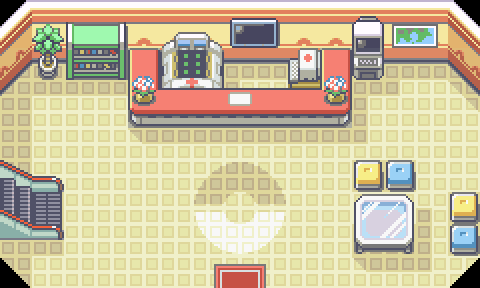
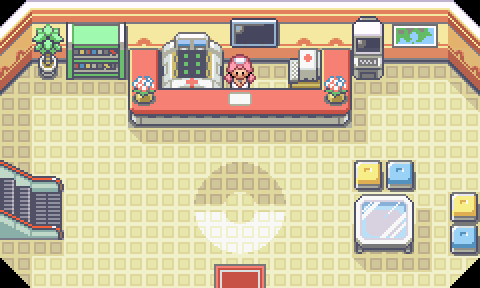
Add nurse to pkmn

Changed region(s): [[0.4688, 0.1875, 0.5312, 0.3125]]

diff --git a/pokemon/main.js b/pokemon/main.js
@@ -110,10 +110,6 @@ var dt = Math.round(1000 / fps);
 var dts = dt / 1000;
 var playermoving = false;
 var playeranim = ["1", "2", "1", "3"];
-var pressingaction = false;
-var pressingone = false;
-var pressingtwo = false;
-var pressingthree = false;
 var amountperanimframe = 4;
 var newarr = [];
 for (var i = 0; i < playeranim.length; i++) {
@@ -192,7 +188,6 @@ var setstate = function (name) {
 	if (name === "battle") {
 		overworldmusic.pause();
 		battlemusic.play();
-		pressingaction = keys[ACTION];
 		textbeingshown = "A battle has started!";
 		pickingmove = false;
 		state = "battle";
@@ -204,6 +199,11 @@ var setstate = function (name) {
 		state = "overworld";
 	}
 }
+
+var justpressedaction = false;
+var justpressedone = false;
+var justpressedtwo = false;
+var justpressedthree = false;
 
 document.addEventListener("keydown", function (e) {
 	e = e || window.event;
@@ -220,15 +220,31 @@ document.addEventListener("keydown", function (e) {
 		keys[RIGHT] = true;
 	}
 	if (e.keyCode === 32) {
+		if (!keys[ACTION]) {
+			justpressedaction = true;
+		}
+
 		keys[ACTION] = true;
 	}
 	if (e.keyCode === 49) {
+		if (!keys[ONE]) {
+			justpressedone = true;
+		}
+
 		keys[ONE] = true;
 	}
 	if (e.keyCode === 50) {
+		if (!keys[TWO]) {
+			justpressedtwo = true;
+		}
+
 		keys[TWO] = true;
 	}
 	if (e.keyCode === 51) {
+		if (!keys[THREE]) {
+			justpressedthree = true;
+		}
+
 		keys[THREE] = true;
 	}
 });
@@ -248,19 +264,15 @@ document.addEventListener("keyup", function (e) {
 	}
 	if (e.keyCode === 32) {
 		keys[ACTION] = false;
-		pressingaction = false;
 	}
 	if (e.keyCode === 49) {
 		keys[ONE] = false;
-		pressingone = false;
 	}
 	if (e.keyCode === 50) {
 		keys[TWO] = false;
-		pressingtwo = false;
 	}
 	if (e.keyCode === 51) {
 		keys[THREE] = false;
-		pressingthree = false;
 	}
 });
 
@@ -417,7 +429,9 @@ window.onload = function () {
 		".": new PassingDataTile(true),
 		"#": new PassingDataTile(false),
 		"*": new Teleporter(0, 0, 0, 14, 9)
-	}, [], "pokecenter.png");
+	}, [], [new ActionEvent(7, 3, function() {
+		playerpoke.hp = playerpoke.stats.hp;
+	})], "pokecenter.png");
 
 	var maps = [route, town, pokecenter];
 
@@ -554,6 +568,10 @@ window.onload = function () {
 
 	tileset.onload = function () {
 		setInterval(function () {
+			if (justpressedaction) {
+				console.log("ACTION");
+			}
+
 			//			console.log("TICK");
 			draw();
 
@@ -617,8 +635,8 @@ window.onload = function () {
 						}
 					}
 				} else {
-					if (keys[ACTION] && !pressingaction) {
-						pressingaction = true;
+					if (justpressedaction) {
+						justpressedaction = false;
 						textbeingshown = null;
 						if (battlingaftertrainertext) {
 							battlingaftertrainertext = false;
@@ -627,13 +645,13 @@ window.onload = function () {
 					}
 				}
 
-				if (playerdir === UP && keys[ACTION] && onblock() && currentmap.get(playerx, playery - 1).name === "sign" && !pressingaction) {
-					pressingaction = true;
+				if (playerdir === UP && justpressedaction && onblock() && currentmap.get(playerx, playery - 1).name === "sign") {
+					justpressedaction = false;
 					textbeingshown = currentmap.get(playerx, playery - 1).text;
 				}
-				if (!pressingaction && keys[ACTION] && onblock()) {
+				if (justpressedaction && onblock()) {
+					justpressedaction = false;
 					if (playerdir === UP && currentmap.trainerat(playerx, playery - 1)) {
-						pressingaction = true;
 						var trainer = currentmap.trainerat(playerx, playery - 1);
 						textbeingshown = trainer.trainer[3];
 						if (!trainer.trainer[5]) {
@@ -645,7 +663,6 @@ window.onload = function () {
 
 					}
 					if (playerdir === DOWN && currentmap.trainerat(playerx, playery + 1)) {
-						pressingaction = true;
 						var trainer = currentmap.trainerat(playerx, playery + 1);
 						textbeingshown = trainer.trainer[3];
 						if (!trainer.trainer[5]) {
@@ -656,7 +673,6 @@ window.onload = function () {
 						}
 					}
 					if (playerdir === LEFT && currentmap.trainerat(playerx - 1, playery)) {
-						pressingaction = true;
 						var trainer = currentmap.trainerat(playerx - 1, playery);
 						textbeingshown = trainer.trainer[3];
 						if (!trainer.trainer[5]) {
@@ -667,7 +683,6 @@ window.onload = function () {
 						}
 					}
 					if (playerdir === RIGHT && currentmap.trainerat(playerx + 1, playery)) {
-						pressingaction = true;
 						var trainer = currentmap.trainerat(playerx + 1, playery);
 						textbeingshown = trainer.trainer[3];
 						if (!trainer.trainer[5]) {
@@ -676,6 +691,26 @@ window.onload = function () {
 							battlingaftertrainertext = true;
 							currenttrainerbattleindex = trainer.index;
 						}
+					}
+					
+					var eventloc = null;
+					if(playerdir === UP) {
+						eventloc = {x: playerx, y: playery - 1};
+					}
+					if(playerdir === DOWN) {
+						eventloc = {x: playerx, y: playery + 1};
+					}
+					if(playerdir === LEFT) {
+						eventloc = {x: playerx - 1, y: playery};
+					}
+					if(playerdir === RIGHT) {
+						eventloc = {x: playerx + 1, y: playery};
+					}
+					
+					console.log(eventloc);
+					var event = currentmap.eventat(eventloc.x, eventloc.y);
+					if(event) {
+						event.action();
 					}
 				}
 

diff --git a/pokemon/battle.js b/pokemon/battle.js
@@ -30,8 +30,8 @@ Battle.prototype.draw = function (ctx) {
 };
 
 Battle.prototype.update = function () {
-	if (keys[ACTION] && !pressingaction) {
-		pressingaction = true;
+	if (justpressedaction) {
+		justpressedaction = false;
 		if (!pickingmove) {
 			textbeingshown = null;
 			pickingmove = true;
@@ -47,16 +47,13 @@ Battle.prototype.update = function () {
 		}
 	}
 	if (pickingmove) {
-		if (keys[ONE] && !pressingone) {
-			pressingone = true;
+		if (justpressedone) {
 			this.doTurn(0);
 		}
-		if (this.playerpoke.moves.length > 1 && keys[TWO] && !pressingtwo) {
-			pressingtwo = true;
+		if (this.playerpoke.moves.length > 1 && justpressedtwo) {
 			this.doTurn(1);
 		}
-		if (this.playerpoke.moves.length > 2 && keys[THREE] && !pressingthree) {
-			pressingthree = true;
+		if (this.playerpoke.moves.length > 2 && justpressedthree) {
 			this.doTurn(2);
 		}
 	}

diff --git a/pokemon/map.js b/pokemon/map.js
@@ -1,9 +1,10 @@
 // datamap is a hashmap of characters on a map to TileTypes
-var Map = function (tileset, data, datamap, trainers, bgsrc) {
+var Map = function (tileset, data, datamap, trainers, events, bgsrc) {
 	this.tileset = tileset;
 	this.data = data;
 	this.datamap = datamap;
 	this.trainers = trainers || [];
+	this.events = events || [];
 	this.bg = new Image();
 	if (bgsrc) {
 		this.bg.src = bgsrc;
@@ -41,6 +42,15 @@ Map.prototype.trainerat = function (x, y) {
 				index: i,
 				trainer: this.trainers[i]
 			};
+		}
+	}
+	return null;
+}
+
+Map.prototype.eventat = function (x, y) {
+	for (var i = 0; i < this.events.length; i++) {
+		if (this.events[i].x === Math.round(x) && this.events[i].y === Math.round(y)) {
+			return this.events[i];
 		}
 	}
 	return null;

diff --git a/pokemon/index.html b/pokemon/index.html
@@ -33,6 +33,7 @@
 
 		<script src="lib.js"></script>
 		<script src="tiletype.js"></script>
+		<script src="event.js"></script>
 		<script src="map.js"></script>
 		<script src="pokedata.js"></script>
 		<script src="pokemon.js"></script>

diff --git a/pokemon/event.js b/pokemon/event.js
@@ -1,0 +1,5 @@
+var ActionEvent = function(x, y, action) {
+	this.x = x;
+	this.y = y;
+	this.action = action;
+}
